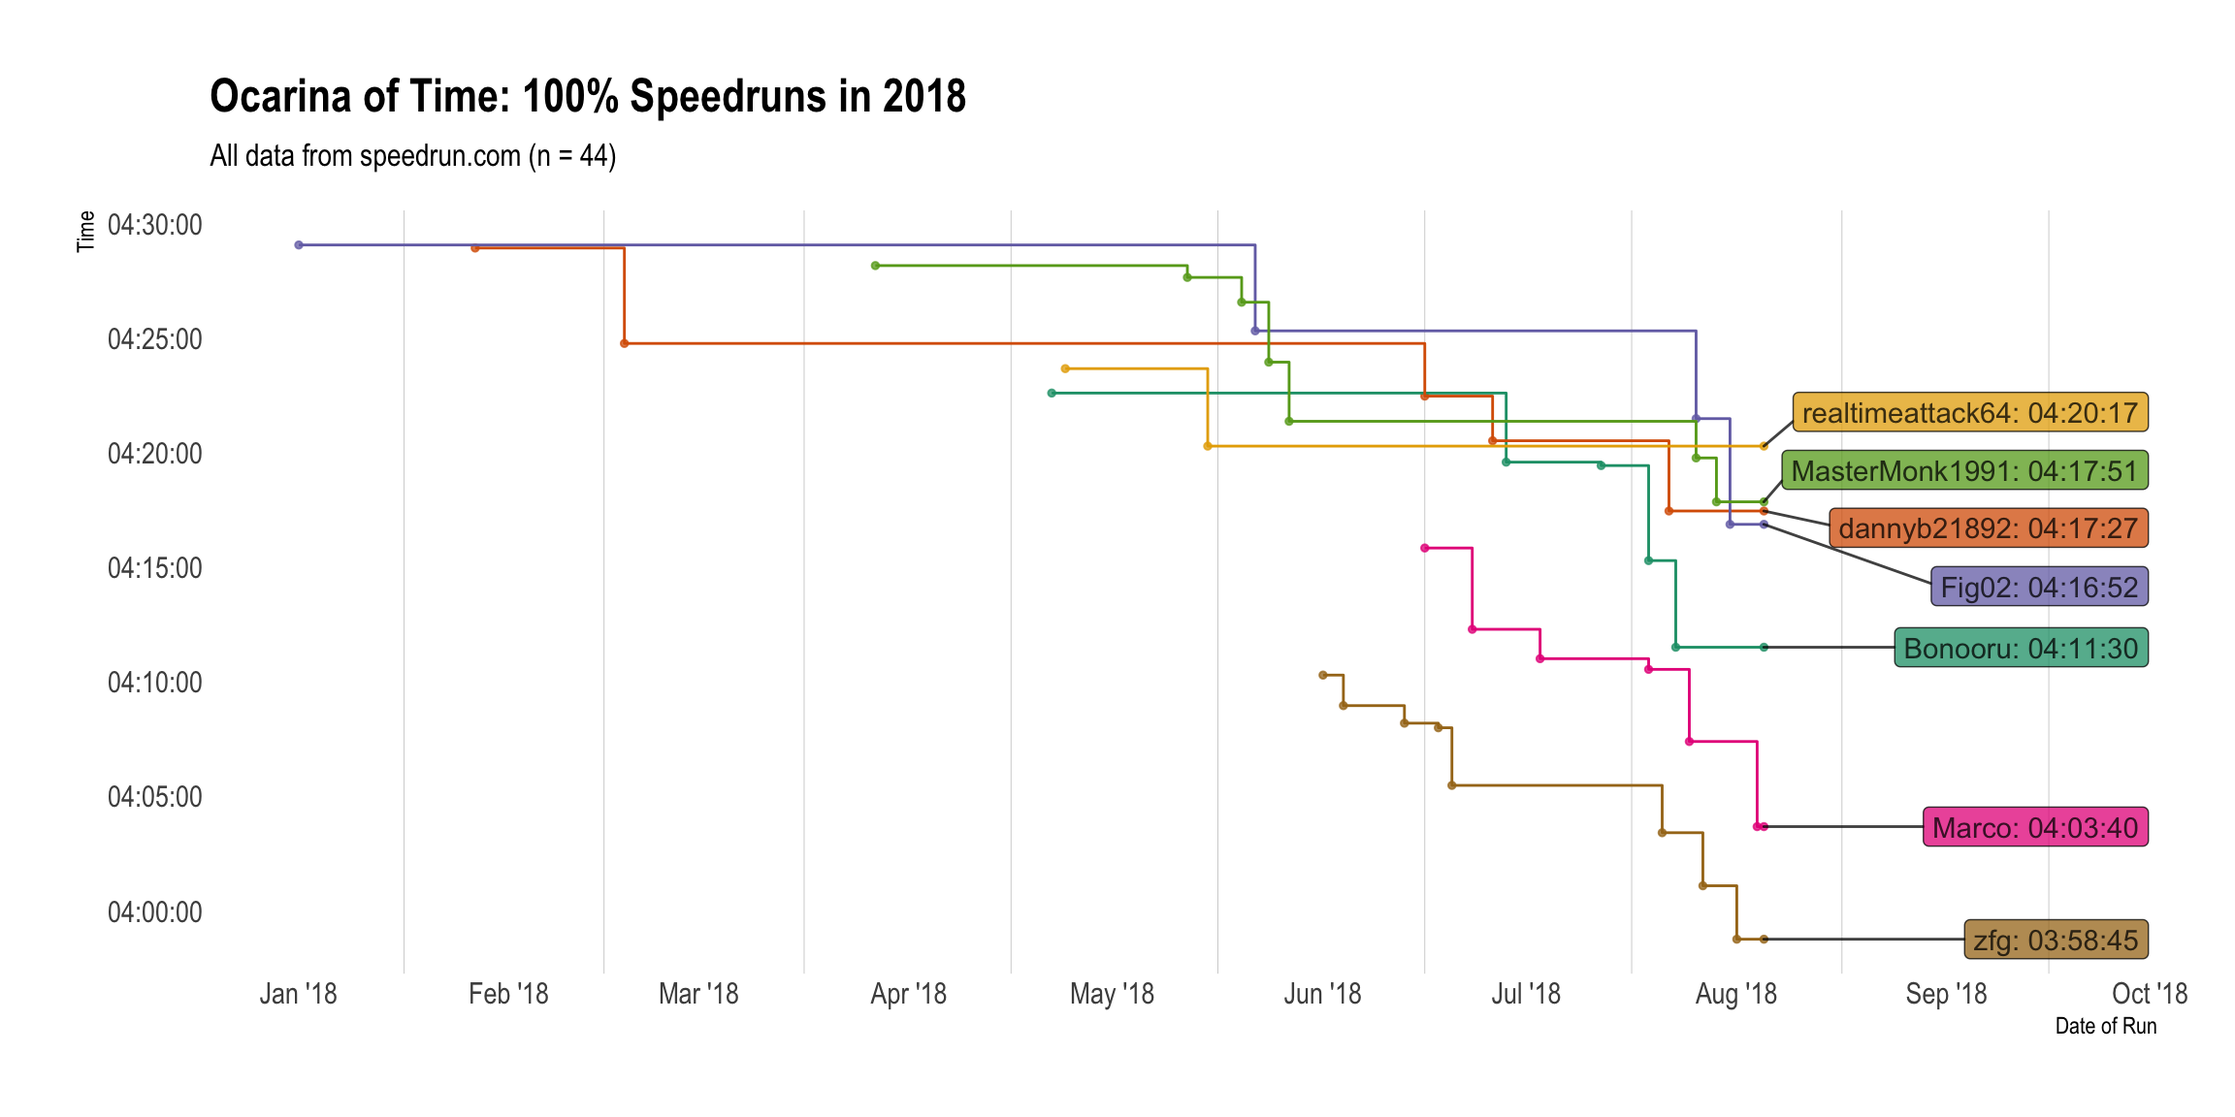
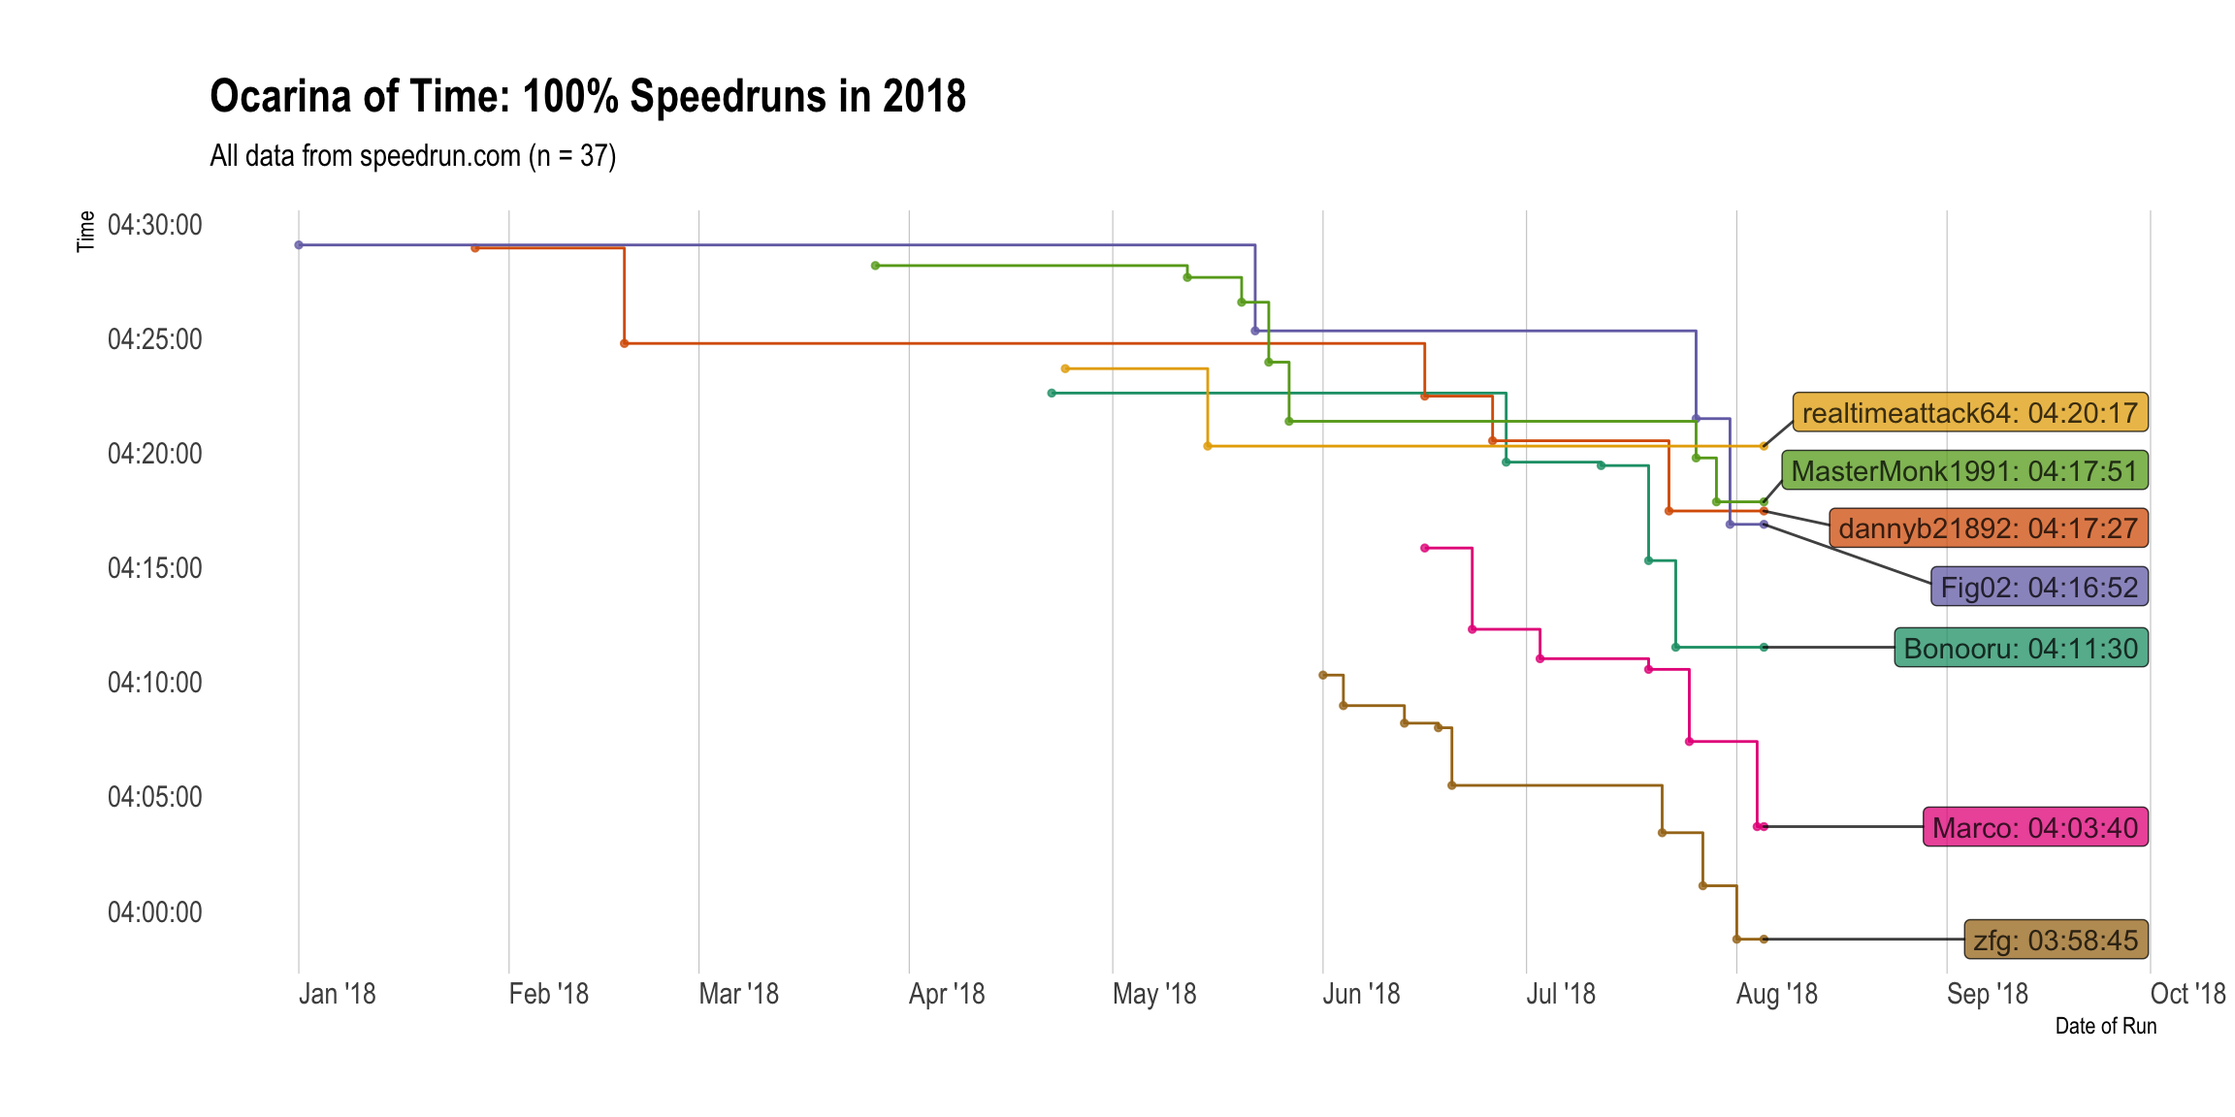
Rebuild everything

diff --git a/docs/articles/ocarina-of-time-100-.html b/docs/articles/ocarina-of-time-100-.html
@@ -134,26 +134,26 @@
 <a class="sourceLine" id="cb3-4" data-line-number="4">oot100 &lt;-<span class="st"> </span><span class="kw"><a href="../reference/get_runs.html">get_runs</a></span>(<span class="dt">game =</span> <span class="st">"j1l9qz1g"</span>, <span class="dt">category =</span> <span class="st">"q255jw2o"</span>, <span class="dt">max =</span> <span class="ot">Inf</span>)</a></code></pre></div>
 <p>Note that I’m useing <code>max = Inf</code> to make sure I get <em>all</em> the runs.</p>
 <div class="sourceCode" id="cb4"><pre class="sourceCode r"><code class="sourceCode r"><a class="sourceLine" id="cb4-1" data-line-number="1"><span class="kw">str</span>(oot100)</a>
-<a class="sourceLine" id="cb4-2" data-line-number="2"><span class="co">#&gt; Classes 'tbl_df', 'tbl' and 'data.frame':    504 obs. of  22 variables:</span></a>
-<a class="sourceLine" id="cb4-3" data-line-number="3"><span class="co">#&gt;  $ id             : chr  "y2q5l35y" "m3o52kwm" "y892o4dm" "zq3wddxy" ...</span></a>
-<a class="sourceLine" id="cb4-4" data-line-number="4"><span class="co">#&gt;  $ weblink        : chr  "https://www.speedrun.com/oot/run/y2q5l35y" "https://www.speedrun.com/oot/run/m3o52kwm" "https://www.speedrun.com/oot/run/y892o4dm" "https://www.speedrun.com/oot/run/zq3wddxy" ...</span></a>
+<a class="sourceLine" id="cb4-2" data-line-number="2"><span class="co">#&gt; Classes 'tbl_df', 'tbl' and 'data.frame':    505 obs. of  22 variables:</span></a>
+<a class="sourceLine" id="cb4-3" data-line-number="3"><span class="co">#&gt;  $ id             : chr  "y89rqq1m" "y2q5l35y" "m3o52kwm" "y892o4dm" ...</span></a>
+<a class="sourceLine" id="cb4-4" data-line-number="4"><span class="co">#&gt;  $ weblink        : chr  "https://www.speedrun.com/oot/run/y89rqq1m" "https://www.speedrun.com/oot/run/y2q5l35y" "https://www.speedrun.com/oot/run/m3o52kwm" "https://www.speedrun.com/oot/run/y892o4dm" ...</span></a>
 <a class="sourceLine" id="cb4-5" data-line-number="5"><span class="co">#&gt;  $ game           : chr  "j1l9qz1g" "j1l9qz1g" "j1l9qz1g" "j1l9qz1g" ...</span></a>
 <a class="sourceLine" id="cb4-6" data-line-number="6"><span class="co">#&gt;  $ level          : logi  NA NA NA NA NA NA ...</span></a>
 <a class="sourceLine" id="cb4-7" data-line-number="7"><span class="co">#&gt;  $ category       : chr  "q255jw2o" "q255jw2o" "q255jw2o" "q255jw2o" ...</span></a>
-<a class="sourceLine" id="cb4-8" data-line-number="8"><span class="co">#&gt;  $ videos         : chr  "https://www.youtube.com/watch?v=KC5nDHK9ipY" "https://www.youtube.com/watch?v=N8vs_cCeekM" "https://youtu.be/tgb6vU3KAgE" "https://youtu.be/VFZh_V_zatU" ...</span></a>
+<a class="sourceLine" id="cb4-8" data-line-number="8"><span class="co">#&gt;  $ videos         : chr  "https://www.twitch.tv/cma_jp/video/293368527" "https://www.youtube.com/watch?v=KC5nDHK9ipY" "https://www.youtube.com/watch?v=N8vs_cCeekM" "https://youtu.be/tgb6vU3KAgE" ...</span></a>
 <a class="sourceLine" id="cb4-9" data-line-number="9"><span class="co">#&gt;  $ status         : chr  "verified" "verified" "verified" "verified" ...</span></a>
-<a class="sourceLine" id="cb4-10" data-line-number="10"><span class="co">#&gt;  $ comment        : chr  "Video footage was cut during KD's fight, I messed up with OBS while trying to stop my \"footage only\" recordin"| __truncated__ "1st try dampe" "6th dampe, decent fishing" "Second run on new equip dupe route, and I got pb twice in the day!" ...</span></a>
-<a class="sourceLine" id="cb4-11" data-line-number="11"><span class="co">#&gt;  $ player_id      : chr  "v819rrxp" "e8e5v680" "zxz9r448" "68wq9z8g" ...</span></a>
-<a class="sourceLine" id="cb4-12" data-line-number="12"><span class="co">#&gt;  $ player_url     : chr  "https://www.speedrun.com/user/Marco" "https://www.speedrun.com/user/zfg" "https://www.speedrun.com/user/Fig02" "https://www.speedrun.com/user/Cma" ...</span></a>
-<a class="sourceLine" id="cb4-13" data-line-number="13"><span class="co">#&gt;  $ player_name    : chr  "Marco" "zfg" "Fig02" "Cma" ...</span></a>
+<a class="sourceLine" id="cb4-10" data-line-number="10"><span class="co">#&gt;  $ comment        : chr  "So bad run. 7th dampe" "Video footage was cut during KD's fight, I messed up with OBS while trying to stop my \"footage only\" recordin"| __truncated__ "1st try dampe" "6th dampe, decent fishing" ...</span></a>
+<a class="sourceLine" id="cb4-11" data-line-number="11"><span class="co">#&gt;  $ player_id      : chr  "68wq9z8g" "v819rrxp" "e8e5v680" "zxz9r448" ...</span></a>
+<a class="sourceLine" id="cb4-12" data-line-number="12"><span class="co">#&gt;  $ player_url     : chr  "https://www.speedrun.com/user/Cma" "https://www.speedrun.com/user/Marco" "https://www.speedrun.com/user/zfg" "https://www.speedrun.com/user/Fig02" ...</span></a>
+<a class="sourceLine" id="cb4-13" data-line-number="13"><span class="co">#&gt;  $ player_name    : chr  "Cma" "Marco" "zfg" "Fig02" ...</span></a>
 <a class="sourceLine" id="cb4-14" data-line-number="14"><span class="co">#&gt;  $ player_role    : chr  "user" "user" "user" "user" ...</span></a>
-<a class="sourceLine" id="cb4-15" data-line-number="15"><span class="co">#&gt;  $ player_signup  : POSIXct, format: "2015-02-17 18:25:39" "2015-02-17 03:55:57" ...</span></a>
-<a class="sourceLine" id="cb4-16" data-line-number="16"><span class="co">#&gt;  $ date           : Date, format: "2018-08-04" "2018-08-01" ...</span></a>
-<a class="sourceLine" id="cb4-17" data-line-number="17"><span class="co">#&gt;  $ submitted      : POSIXct, format: "2018-08-04 04:03:15" "2018-08-02 02:15:56" ...</span></a>
-<a class="sourceLine" id="cb4-18" data-line-number="18"><span class="co">#&gt;  $ time_primary   : int  14620 14325 15412 16231 15471 14465 15689 15586 14843 20589 ...</span></a>
-<a class="sourceLine" id="cb4-19" data-line-number="19"><span class="co">#&gt;  $ time_realtime  : int  14620 14325 15412 16231 15471 14465 15689 15586 14843 20589 ...</span></a>
+<a class="sourceLine" id="cb4-15" data-line-number="15"><span class="co">#&gt;  $ player_signup  : POSIXct, format: "2015-02-20 17:09:08" "2015-02-17 18:25:39" ...</span></a>
+<a class="sourceLine" id="cb4-16" data-line-number="16"><span class="co">#&gt;  $ date           : Date, format: "2018-08-05" "2018-08-04" ...</span></a>
+<a class="sourceLine" id="cb4-17" data-line-number="17"><span class="co">#&gt;  $ submitted      : POSIXct, format: "2018-08-05 10:25:56" "2018-08-04 04:03:15" ...</span></a>
+<a class="sourceLine" id="cb4-18" data-line-number="18"><span class="co">#&gt;  $ time_primary   : int  16212 14620 14325 15412 16231 15471 14465 15689 15586 14843 ...</span></a>
+<a class="sourceLine" id="cb4-19" data-line-number="19"><span class="co">#&gt;  $ time_realtime  : int  16212 14620 14325 15412 16231 15471 14465 15689 15586 14843 ...</span></a>
 <a class="sourceLine" id="cb4-20" data-line-number="20"><span class="co">#&gt;  $ time_ingame    : int  0 0 0 0 0 0 0 0 0 0 ...</span></a>
-<a class="sourceLine" id="cb4-21" data-line-number="21"><span class="co">#&gt;  $ time_hms       : 'hms' num  04:03:40 03:58:45 04:16:52 04:30:31 ...</span></a>
+<a class="sourceLine" id="cb4-21" data-line-number="21"><span class="co">#&gt;  $ time_hms       : 'hms' num  04:30:12 04:03:40 03:58:45 04:16:52 ...</span></a>
 <a class="sourceLine" id="cb4-22" data-line-number="22"><span class="co">#&gt;   ..- attr(*, "units")= chr "secs"</span></a>
 <a class="sourceLine" id="cb4-23" data-line-number="23"><span class="co">#&gt;  $ system_platform: chr  "nzelreqp" "nzelreqp" "nzelreqp" "nzelreqp" ...</span></a>
 <a class="sourceLine" id="cb4-24" data-line-number="24"><span class="co">#&gt;  $ system_emulated: logi  FALSE FALSE FALSE FALSE FALSE FALSE ...</span></a>
@@ -293,13 +293,13 @@
 <a class="sourceLine" id="cb7-5" data-line-number="5">         date <span class="op">&gt;=</span><span class="st"> </span><span class="kw"><a href="http://lubridate.tidyverse.org/reference/ymd.html">ymd</a></span>(<span class="st">"2018-01-01"</span>)) <span class="op">%&gt;%</span></a>
 <a class="sourceLine" id="cb7-6" data-line-number="6"><span class="st">  </span><span class="kw"><a href="http://dplyr.tidyverse.org/reference/select.html">select</a></span>(player_name, time_hms, date)</a>
 <a class="sourceLine" id="cb7-7" data-line-number="7"></a>
-<a class="sourceLine" id="cb7-8" data-line-number="8">  <span class="kw"><a href="http://dplyr.tidyverse.org/reference/bind.html">bind_rows</a></span>(</a>
-<a class="sourceLine" id="cb7-9" data-line-number="9">      tmp,</a>
-<a class="sourceLine" id="cb7-10" data-line-number="10">      tmp <span class="op">%&gt;%</span></a>
-<a class="sourceLine" id="cb7-11" data-line-number="11"><span class="st">        </span><span class="kw"><a href="http://dplyr.tidyverse.org/reference/group_by.html">group_by</a></span>(player_name) <span class="op">%&gt;%</span></a>
-<a class="sourceLine" id="cb7-12" data-line-number="12"><span class="st">        </span><span class="kw"><a href="http://dplyr.tidyverse.org/reference/summarise.html">summarize</a></span>(<span class="dt">time_hms =</span> <span class="kw">min</span>(time_hms), <span class="dt">date =</span> <span class="kw"><a href="http://lubridate.tidyverse.org/reference/today.html">today</a></span>()) <span class="op">%&gt;%</span></a>
-<a class="sourceLine" id="cb7-13" data-line-number="13"><span class="st">        </span>ungroup</a>
-<a class="sourceLine" id="cb7-14" data-line-number="14">  ) <span class="op">%&gt;%</span></a>
+<a class="sourceLine" id="cb7-8" data-line-number="8"><span class="kw"><a href="http://dplyr.tidyverse.org/reference/bind.html">bind_rows</a></span>(</a>
+<a class="sourceLine" id="cb7-9" data-line-number="9">  tmp,</a>
+<a class="sourceLine" id="cb7-10" data-line-number="10">  tmp <span class="op">%&gt;%</span></a>
+<a class="sourceLine" id="cb7-11" data-line-number="11"><span class="st">    </span><span class="kw"><a href="http://dplyr.tidyverse.org/reference/group_by.html">group_by</a></span>(player_name) <span class="op">%&gt;%</span></a>
+<a class="sourceLine" id="cb7-12" data-line-number="12"><span class="st">    </span><span class="kw"><a href="http://dplyr.tidyverse.org/reference/summarise.html">summarize</a></span>(<span class="dt">time_hms =</span> <span class="kw">min</span>(time_hms), <span class="dt">date =</span> <span class="kw"><a href="http://lubridate.tidyverse.org/reference/today.html">today</a></span>()) <span class="op">%&gt;%</span></a>
+<a class="sourceLine" id="cb7-13" data-line-number="13"><span class="st">    </span>ungroup</a>
+<a class="sourceLine" id="cb7-14" data-line-number="14">) <span class="op">%&gt;%</span></a>
 <a class="sourceLine" id="cb7-15" data-line-number="15"><span class="st">  </span>{</a>
 <a class="sourceLine" id="cb7-16" data-line-number="16">    <span class="kw"><a href="http://www.rdocumentation.org/packages/ggplot2/topics/ggplot">ggplot</a></span>(., <span class="kw"><a href="http://www.rdocumentation.org/packages/ggplot2/topics/aes">aes</a></span>(date, time_hms, <span class="dt">color =</span> player_name, <span class="dt">fill =</span> player_name)) <span class="op">+</span></a>
 <a class="sourceLine" id="cb7-17" data-line-number="17"><span class="st">      </span><span class="kw"><a href="http://www.rdocumentation.org/packages/ggplot2/topics/geom_point">geom_point</a></span>(<span class="dt">size =</span> <span class="dv">1</span>, <span class="dt">alpha =</span> <span class="fl">.75</span>) <span class="op">+</span></a>
@@ -312,14 +312,14 @@
 <a class="sourceLine" id="cb7-24" data-line-number="24">                       <span class="dt">hjust =</span> <span class="dv">1</span>, <span class="dt">direction =</span> <span class="st">"y"</span>, <span class="dt">nudge_x =</span> <span class="dv">60</span><span class="op">^</span><span class="dv">2</span>) <span class="op">+</span></a>
 <a class="sourceLine" id="cb7-25" data-line-number="25"><span class="st">      </span><span class="kw"><a href="http://www.rdocumentation.org/packages/ggplot2/topics/scale_date">scale_x_date</a></span>(<span class="dt">date_breaks =</span> <span class="st">"1 month"</span>, <span class="dt">date_labels =</span> <span class="st">"%b '%y"</span>,</a>
 <a class="sourceLine" id="cb7-26" data-line-number="26">                   <span class="dt">limits =</span> <span class="kw">c</span>(<span class="kw">as.Date</span>(<span class="ot">NA</span>), <span class="kw"><a href="http://lubridate.tidyverse.org/reference/today.html">today</a></span>() <span class="op">+</span><span class="st"> </span><span class="kw"><a href="http://lubridate.tidyverse.org/reference/period.html">days</a></span>(<span class="dv">45</span>))) <span class="op">+</span></a>
-<a class="sourceLine" id="cb7-27" data-line-number="27"><span class="st">      </span><span class="kw"><a href="http://www.rdocumentation.org/packages/ggplot2/topics/scale_date">scale_y_time</a></span>(<span class="dt">breaks =</span> <span class="kw">seq</span>(<span class="dv">2</span> <span class="op">*</span><span class="st"> </span><span class="dv">60</span><span class="op">^</span><span class="dv">2</span>, <span class="dv">20</span> <span class="op">*</span><span class="st"> </span><span class="dv">60</span><span class="op">^</span><span class="dv">2</span>,  <span class="dv">1</span><span class="op">/</span><span class="dv">12</span> <span class="op">*</span><span class="st"> </span><span class="dv">60</span><span class="op">^</span><span class="dv">2</span>),</a>
-<a class="sourceLine" id="cb7-28" data-line-number="28">                   <span class="dt">minor_breaks =</span> <span class="kw">seq</span>(<span class="dv">2</span> <span class="op">*</span><span class="st"> </span><span class="dv">60</span><span class="op">^</span><span class="dv">2</span>, <span class="dv">20</span> <span class="op">*</span><span class="st"> </span><span class="dv">60</span><span class="op">^</span><span class="dv">2</span>, <span class="dv">1</span><span class="op">/</span><span class="dv">24</span> <span class="op">*</span><span class="st"> </span><span class="dv">60</span>)) <span class="op">+</span></a>
+<a class="sourceLine" id="cb7-27" data-line-number="27"><span class="st">      </span><span class="kw"><a href="http://www.rdocumentation.org/packages/ggplot2/topics/scale_date">scale_y_time</a></span>(<span class="dt">breaks =</span> <span class="kw">seq</span>(<span class="dv">0</span>, <span class="dv">20</span> <span class="op">*</span><span class="st"> </span><span class="dv">60</span><span class="op">^</span><span class="dv">2</span>,  <span class="dv">1</span><span class="op">/</span><span class="dv">12</span> <span class="op">*</span><span class="st"> </span><span class="dv">60</span><span class="op">^</span><span class="dv">2</span>),</a>
+<a class="sourceLine" id="cb7-28" data-line-number="28">                   <span class="dt">minor_breaks =</span> <span class="kw">seq</span>(<span class="dv">0</span>, <span class="dv">20</span> <span class="op">*</span><span class="st"> </span><span class="dv">60</span><span class="op">^</span><span class="dv">2</span>, <span class="dv">1</span><span class="op">/</span><span class="dv">24</span> <span class="op">*</span><span class="st"> </span><span class="dv">60</span>)) <span class="op">+</span></a>
 <a class="sourceLine" id="cb7-29" data-line-number="29"><span class="st">      </span><span class="kw"><a href="http://www.rdocumentation.org/packages/ggplot2/topics/scale_brewer">scale_color_brewer</a></span>(<span class="dt">palette =</span> <span class="st">"Dark2"</span>, <span class="dt">guide =</span> F) <span class="op">+</span></a>
 <a class="sourceLine" id="cb7-30" data-line-number="30"><span class="st">      </span><span class="kw"><a href="http://www.rdocumentation.org/packages/ggplot2/topics/scale_brewer">scale_fill_brewer</a></span>(<span class="dt">palette =</span> <span class="st">"Dark2"</span>, <span class="dt">guide =</span> F) <span class="op">+</span></a>
 <a class="sourceLine" id="cb7-31" data-line-number="31"><span class="st">      </span><span class="kw"><a href="http://www.rdocumentation.org/packages/ggplot2/topics/labs">labs</a></span>(<span class="dt">title =</span> <span class="st">"Ocarina of Time: 100% Speedruns in 2018"</span>,</a>
-<a class="sourceLine" id="cb7-32" data-line-number="32">           <span class="dt">subtitle =</span> <span class="kw">paste0</span>(<span class="st">"All data from speedrun.com (n = "</span>, <span class="kw">nrow</span>(.), <span class="st">")"</span>),</a>
+<a class="sourceLine" id="cb7-32" data-line-number="32">           <span class="dt">subtitle =</span> <span class="kw">paste0</span>(<span class="st">"All data from speedrun.com (n = "</span>, <span class="kw">nrow</span>(tmp), <span class="st">")"</span>),</a>
 <a class="sourceLine" id="cb7-33" data-line-number="33">           <span class="dt">x =</span> <span class="st">"Date of Run"</span>, <span class="dt">y =</span> <span class="st">"Time"</span>) <span class="op">+</span></a>
-<a class="sourceLine" id="cb7-34" data-line-number="34"><span class="st">      </span><span class="kw"><a href="http://www.rdocumentation.org/packages/hrbrthemes/topics/theme_ipsum">theme_ipsum</a></span>(<span class="dt">grid =</span> <span class="st">"x"</span>)</a>
+<a class="sourceLine" id="cb7-34" data-line-number="34"><span class="st">      </span><span class="kw"><a href="http://www.rdocumentation.org/packages/hrbrthemes/topics/theme_ipsum">theme_ipsum</a></span>(<span class="dt">grid =</span> <span class="st">"X"</span>) <span class="op">+</span><span class="st"> </span><span class="kw"><a href="http://www.rdocumentation.org/packages/ggplot2/topics/theme">theme</a></span>(<span class="dt">axis.text.x =</span> <span class="kw"><a href="http://www.rdocumentation.org/packages/ggplot2/topics/element">element_text</a></span>(<span class="dt">hjust =</span> <span class="dv">0</span>))</a>
 <a class="sourceLine" id="cb7-35" data-line-number="35">  }</a></code></pre></div>
 <p><img src="ocarina-of-time-100-_files/figure-html/oot_100_recents-1.png" width="1152"></p>
 </div>

diff --git a/docs/index.html b/docs/index.html
@@ -535,27 +535,27 @@ Let’s get started:</p>
 </tr></thead>
 <tbody>
 <tr class="odd">
-<td align="right">14620</td>
+<td align="right">18841</td>
 <td align="left">JPN / NTSC</td>
-<td align="left">Wii Virtual Console</td>
+<td align="left">Nintendo 64</td>
 </tr>
 <tr class="even">
-<td align="right">19593</td>
+<td align="right">17671</td>
 <td align="left">JPN / NTSC</td>
 <td align="left">Nintendo 64</td>
 </tr>
 <tr class="odd">
-<td align="right">14604</td>
-<td align="left">JPN / NTSC</td>
-<td align="left">Wii Virtual Console</td>
-</tr>
-<tr class="even">
-<td align="right">23467</td>
+<td align="right">19913</td>
 <td align="left">JPN / NTSC</td>
 <td align="left">Nintendo 64</td>
 </tr>
+<tr class="even">
+<td align="right">15032</td>
+<td align="left">JPN / NTSC</td>
+<td align="left">Wii Virtual Console</td>
+</tr>
 <tr class="odd">
-<td align="right">15714</td>
+<td align="right">16136</td>
 <td align="left">JPN / NTSC</td>
 <td align="left">Wii Virtual Console</td>
 </tr>
